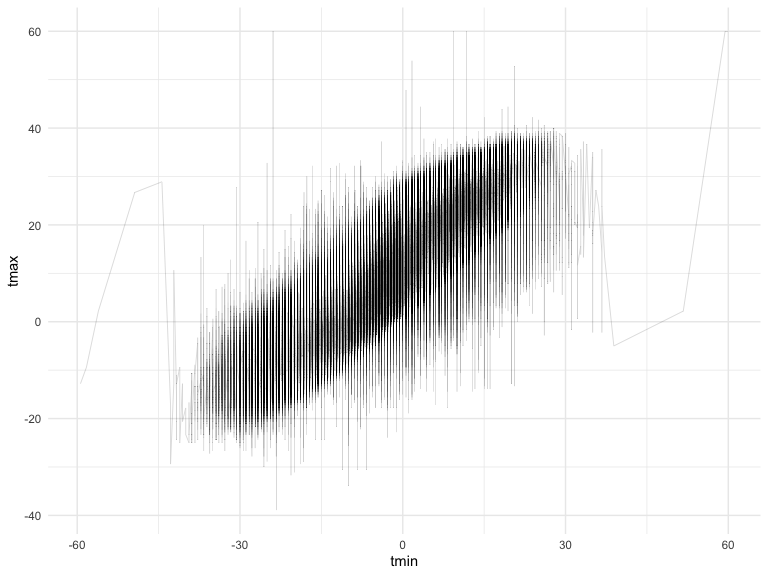
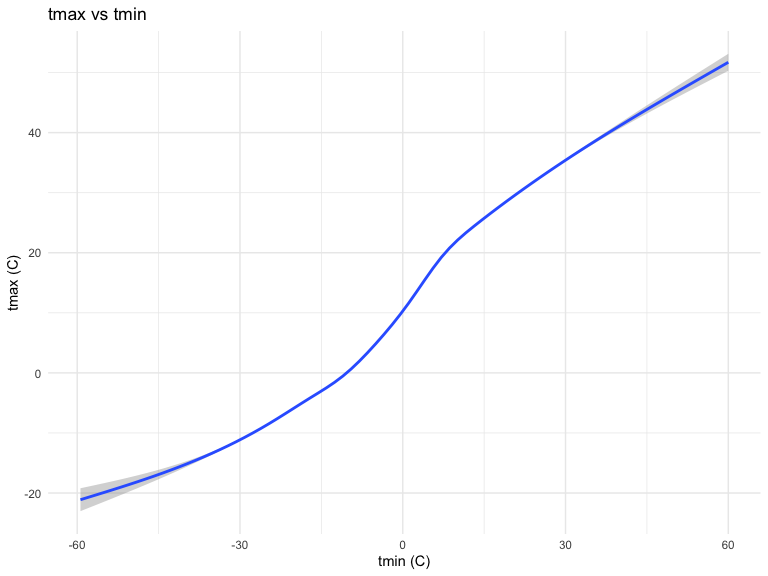
commit final plots - updates

diff --git a/p8105_hw3_yl4610.md b/p8105_hw3_yl4610.md
@@ -272,25 +272,30 @@ used select to reorder from Monday to Sunday. I used knitr::kable to
 create a table in rmd file.
 
 This person had extreme low level of activities on Saturday at week 4
-and week 5. Other than this, I do not think there are any apparent
-trends.
+and week 5. Also, this person has relatively lower level of activities
+on week 1 Monday (\<10,0000) comapred to other weekdays. Other than
+this, I do not think there are other apparent trends.
 
 ``` r
+accel_data_plot=
 accel_data %>%
   ggplot(aes(x = activity, y = activity_counts, color = day)) + 
   geom_line(alpha = 0.5) + 
-    labs( 
+  geom_smooth(se = FALSE)+
+  scale_x_discrete(
+    breaks = c(0, 240, 480, 720, 960,1200,1440), 
+    labels = c("12:00 A.M.","04:00 A.M.","8:00 A.M.","12:00 P.M.","04:00 P.M.","8:00 P.M.","12:00 P.M."))+
+  labs( 
     title = "24-hour activity time courses for each day",
     x = "minute",
     y = "day") +
     geom_smooth(alpha = 0.5)
 ```
 
-    ## `geom_smooth()` using method = 'loess' and formula 'y ~ x'
-
-<img src="p8105_hw3_yl4610_files/figure-gfm/unnamed-chunk-9-1.png" width="90%" />
 Based on this graph, this 63 year-old male had a higher level of
-activities in weekdays compared to weekends.
+activities in weekdays compared to weekends generally. He has higher
+level of activities around 8 P.M., 12 P.M., and 4P.M. He has lower level
+of activities around 12 A.M. and 4 A.M.
 
 # question3
 
@@ -303,13 +308,12 @@ janitor::clean_names() %>%
           tmin = as.integer(tmin)) %>% 
 separate(date, into = c("year", "month", "day"), sep = "-") %>% 
   mutate (
-      year = as.integer(year),
       month = as.integer(month),
       day = as.integer(day)) %>% 
   mutate (
     prcp = prcp/10,
-      tmax = tmax/10,
-        tmin = tmin/10)
+    tmax = tmax/10,
+    tmin = tmin/10)
 ```
 
 I loaded ny_noaa dataset from the p8105.datasets library. This dataset
@@ -317,10 +321,11 @@ contains variables such as id, date, prcp, snow, snwd, tmax, tmin. It
 contains 7 columns and 2595176 rows. Thus, there are 2595176
 observations.
 
-prec: Precipitation has 145838 missing values snow: Snowfall has 381221
-missing values snwd: Snow depth variable has 591786 missing values tmin:
-Minimum temperature has 1134420 missing values tmax: Maximum temperature
-has 1134358 missing values
+Precipitation, tmax, and tmin are divided by 10. prec: Precipitation has
+145838 missing values snow: Snowfall has 381221 missing values snwd:
+Snow depth variable has 591786 missing values tmin: Minimum temperature
+has 1134420 missing values tmax: Maximum temperature has 1134358 missing
+values
 
 Missing data is a big issue here because we have a lot of them.
 
@@ -348,7 +353,8 @@ arrange(desc(n_obs))
     ## # … with 272 more rows
 
 The most commonly observed values for snow is 0 because it has 2008508
-observations.
+observations.Most of the time we do not have snow due to weather and
+seasons.
 
 Two-panel plot showing the average max temperature in January and in
 July in each station across years:
@@ -362,8 +368,13 @@ group_by(id, year, month) %>%
 summarize(
 average_max_temp = mean(tmax, na.rm = TRUE)) %>% 
   ggplot(
-  aes(x = year, y = average_max_temp, color=month, group=id)) +
-  geom_line(alpha = 0.5, size = .1) +
+  aes(x = year, y = average_max_temp)) +
+  geom_point(alpha = 0.5, size = .1) +
+  geom_smooth(aes(group=month)) +
+      labs( 
+    title = "average max temperature in January and in July in each station across years",
+    x = "year",
+    y = "average_max_temp (C)")+
   facet_grid(.~month)
 ```
 
@@ -374,11 +385,13 @@ average_max_temp = mean(tmax, na.rm = TRUE)) %>%
 ny_plot1
 ```
 
+    ## `geom_smooth()` using method = 'gam' and formula 'y ~ s(x, bs = "cs")'
+
 <img src="p8105_hw3_yl4610_files/figure-gfm/unnamed-chunk-12-1.png" width="90%" />
-Is there any observable / interpretable structure? Any outliers? The
-average max temperature in January is lower than the average max
+The average max temperature in January is lower than the average max
 temperature in July in each station across year. Also, the range of
-average max temperature in January is greater than that in July.
+average max temperature in January is greater than that in July.Yes,
+there are outliers.
 
 Make a two-panel plot showing (i) tmax vs tmin for the full dataset
 (note that a scatterplot may not be the best option); and (ii) make a
@@ -390,19 +403,41 @@ ny_ploti =
   ny_noaadf %>%
   ggplot(
   aes(x = tmin, y = tmax)) +
-  geom_line(alpha = 0.5, size = .1)
+  geom_smooth() +     
+labs( 
+    title = "tmax vs tmin",
+    x = "tmin (C)",
+    y = "tmax (C)")
 ny_ploti
 ```
 
+    ## `geom_smooth()` using method = 'gam' and formula 'y ~ s(x, bs = "cs")'
+
 <img src="p8105_hw3_yl4610_files/figure-gfm/unnamed-chunk-13-1.png" width="90%" />
+The distribution of the plot is not linear, but there exists a postive
+relationship between tmin and tmax.
 
 ``` r
 ny_plotii =
   ny_noaadf %>%
   filter(snow>0 & snow<100) %>% 
   ggplot(aes(x = snow, fill = year)) +
-  geom_density(alpha = .4, adjust = .5, color = "blue")
+  geom_density(alpha = .4, adjust = .5, color = "blue") +     
+labs( 
+    title = "distribution of snowfall separately by year")
 ny_plotii
 ```
 
 <img src="p8105_hw3_yl4610_files/figure-gfm/unnamed-chunk-14-1.png" width="90%" />
+The distribution of snowfall are pretty similar each year after we only
+include 0\<snow\<100.
+
+merge the two plots together to create a two-panel plot
+
+``` r
+ny_ploti + ny_plotii
+```
+
+    ## `geom_smooth()` using method = 'gam' and formula 'y ~ s(x, bs = "cs")'
+
+<img src="p8105_hw3_yl4610_files/figure-gfm/unnamed-chunk-15-1.png" width="90%" />
